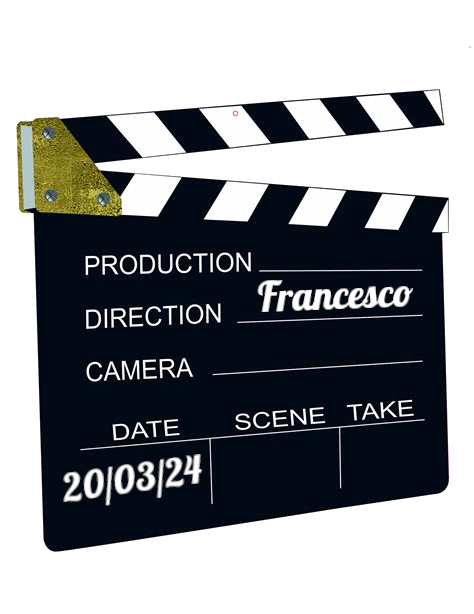
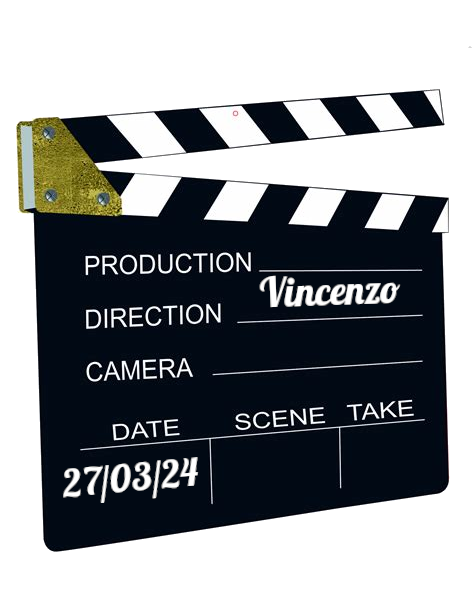
L'uomo senza passato

Changed region(s): [[0.1181, 0.7427, 0.443, 0.8355], [0.5316, 0.4332, 0.8861, 0.5261]]

diff --git a/index.html b/index.html
@@ -38,15 +38,25 @@
 
 <br /><br /><hr width="90%"><hr width="90%"><br /><br />
 
-<h1>Mercoled&igrave; 20 marzo 2024</h1>
+<h1>Mercoled&igrave; 27 marzo 2024</h1>
 <h2>Alle 20:30 in Via Nizza, 72</h2>
 
 <img src="img/ciak.png" class="locandina"/>
 
-<h2>Selezionatore: <i>Francesco</i></h2>
+<h2>Selezionatore: <i>Vincenzo</i></h2>
 
 
 <br /><br /><hr width="90%"><hr width="90%"><br /><br />
+
+<h1>Mercoled&igrave; 20 marzo 2024</h1>
+<p class="mtitle">
+<a href="https://www.imdb.com/title/tt0311519" target="_blank">L'uomo senza passato</a>
+</p>
+<img src="https://image.tmdb.org/t/p/w500/4XnWcW3I8x8kRkbdEYT36QDQu3d.jpg" class="locandina"/>
+<h2>Selezionatore: <i>Francesco</i></h2>
+
+<br /><br /><hr width="90%"><br /><br />
+
 
 <h1>Mercoled&igrave; 13 marzo 2024</h1>
 <p class="mtitle">

diff --git a/movieslist.html b/movieslist.html
@@ -29,6 +29,17 @@ Rassegnamoci, Cineforum a Programma Variabile - Elenco Film
   </thead>
   <tbody>
     <tr>
+      <td>20-Mar-2024</td>
+      <td>L'uomo senza passato</td>
+      <td>Francesco</td>
+      <td>-</td>
+      <td>2002</td>
+      <td>Aki Kaurismäki</td>
+      <td>97</td>
+      <td>FI; FR; DE</td>
+      <td><a href="https://www.imdb.com/title/tt0311519" target="_blank">https://www.imdb.com/title/tt0311519</a></td>
+    </tr>
+    <tr>
       <td>13-Mar-2024</td>
       <td>Tre donne - La sciantosa</td>
       <td>Adriana</td>
